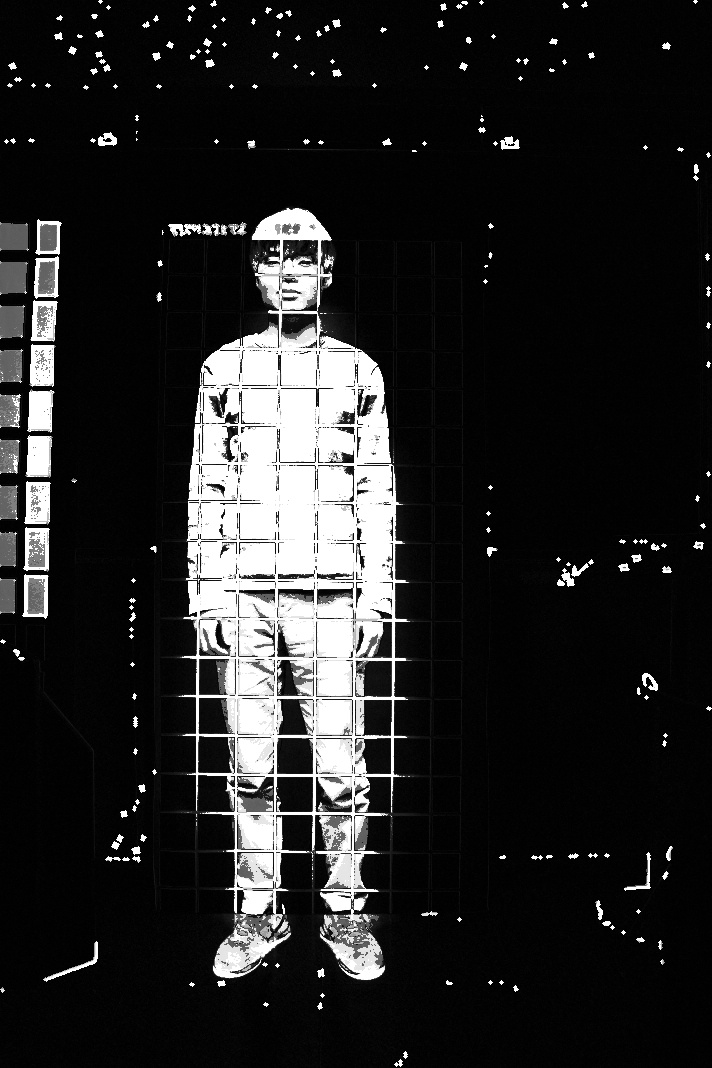
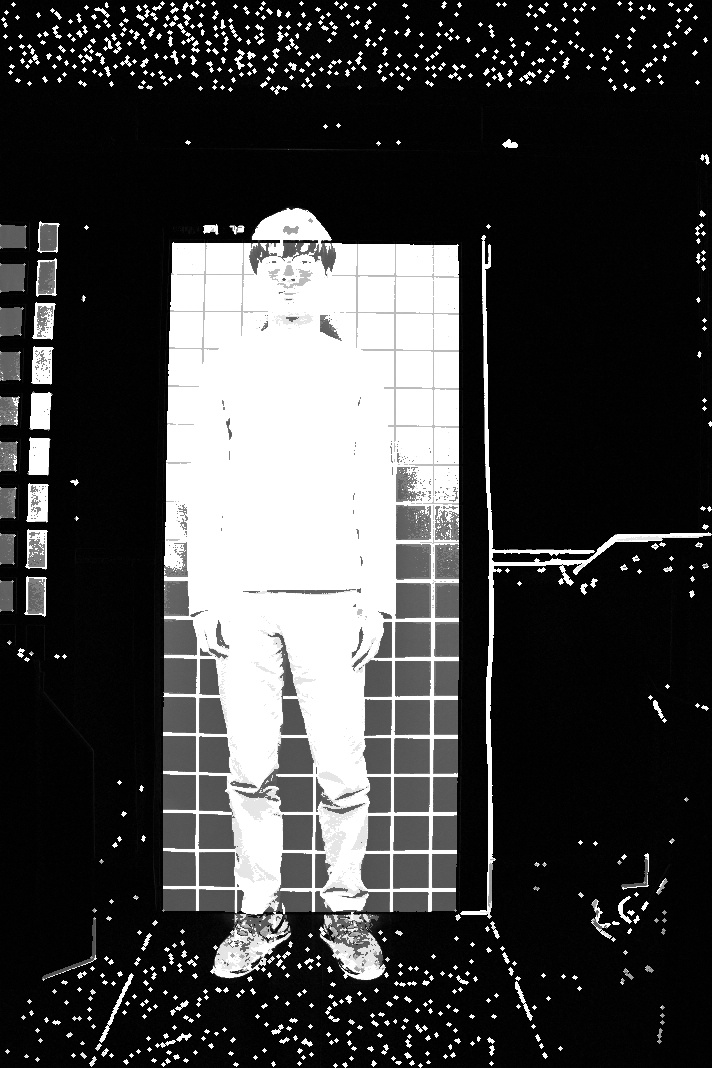
Extract black box from black board
Sadl;ajf;ksdqgq

diff --git a/ObjectDetect.py b/ObjectDetect.py
@@ -13,20 +13,39 @@ def Show(image,key=0):
     cv2.waitKey(key)
 
 def GrayImage(before,after):
+    #before :  Resources/testcase5/before.JPG
+    #after : Resources/testcase5/after.JPG
+
+    MORPHOLOGY_MASK_SIZE = 5
+    BLUR_MASK_SIZE = 1
+    EACH_IMAGE_DIFFERENCE_THRESHOLD = 30
+    SET_IMAGE_WHITE_COLOR = 255
+    NEIGHBORHOOD_MASK_SIZE = 7
+    CANNY_MINIMUM_THRESHOLD = 0
+    CANNY_MAXIMUM_THRESHOLD = 255
+    GET_MAXIMUM_AREA_SIZE = 5
+    SQUARE_CORNER_NUM = 4
+
     lineImage = before
+    # Line detect image
+
     beforeGray = cv2.cvtColor(before, cv2.COLOR_BGR2GRAY)
     afterGray = cv2.cvtColor(after, cv2.COLOR_BGR2GRAY)
-    kernel = np.ones((5, 5), np.uint8)
-    beforeGray = cv2.morphologyEx(beforeGray, cv2.MORPH_OPEN, kernel)
-    cv2.imwrite('Morphology.png',beforeGray)
+    # Change color to gray
 
-    beforeGray = cv2.morphologyEx(before, cv2.MORPH_OPEN, kernel)
+    kernel = np.ones((MORPHOLOGY_MASK_SIZE, MORPHOLOGY_MASK_SIZE), np.uint8)
+    beforeGray = cv2.morphologyEx(beforeGray, cv2.MORPH_OPEN, kernel)
+    #beforeGray = cv2.morphologyEx(before, cv2.MORPH_OPEN, kernel)
+    afterGray = cv2.morphologyEx(afterGray, cv2.MORPH_OPEN, kernel)
+    # Reduce image noise
+
+    difference = cv2.absdiff(beforeGray, afterGray)
+    difference[difference > EACH_IMAGE_DIFFERENCE_THRESHOLD] = SET_IMAGE_WHITE_COLOR
+    # Dectect each image difference
+
+    '''
     splitImage = []
     splitImage = cv2.split(beforeGray)
-
-    afterGray = cv2.morphologyEx(afterGray, cv2.MORPH_OPEN, kernel)
-    difference = cv2.absdiff(beforeGray, afterGray)
-    difference[difference > 30] = 255
 
     for color in splitImage:
         color = cv2.GaussianBlur(color, (3,3), 0)
@@ -47,11 +66,41 @@ def GrayImage(before,after):
                 for i in approx:
                     x, y = i.ravel()
                     cv2.circle(lineImage, (x, y), 1, (0, 255, 0), -1)
+    '''
 
-    blurImage = cv2.GaussianBlur(beforeGray, (3, 3), 0)
-    blurImage = cv2.adaptiveThreshold(blurImage, 255, cv2.ADAPTIVE_THRESH_MEAN_C, cv2.THRESH_BINARY, 7, 10)
-    _, contours, h = cv2.findContours(blurImage, cv2.RETR_LIST, cv2.CHAIN_APPROX_SIMPLE)
-    edges = cv2.Canny(blurImage, 50, 150,apertureSize = 3)
+    #blurImage = cv2.GaussianBlur(beforeGray, (BLUR_MASK_SIZE, BLUR_MASK_SIZE), 0)
+    # Reduce image noise, 0 : border type (idk)
+
+    blurImage = cv2.adaptiveThreshold(beforeGray, SET_IMAGE_WHITE_COLOR, cv2.ADAPTIVE_THRESH_MEAN_C,
+                                      cv2.THRESH_BINARY, NEIGHBORHOOD_MASK_SIZE, 10)
+    # Get small size of block's threshold value
+
+    edges = cv2.Canny(blurImage, CANNY_MINIMUM_THRESHOLD, CANNY_MAXIMUM_THRESHOLD, apertureSize = 5)
+    cv2.imwrite("cannyEdgeDetectedImage.jpg", edges)
+    # Edge detect from bulr processed image
+    (_, contours, h) = cv2.findContours(blurImage, cv2.RETR_LIST, cv2.CHAIN_APPROX_SIMPLE)
+    # Get image contour
+
+    foundedMaxAreaSizeContours = sorted(contours, key=cv2.contourArea, reverse=True)[:GET_MAXIMUM_AREA_SIZE]
+
+    squareContourData = []
+
+    for indexOfContour in foundedMaxAreaSizeContours:
+        peri = cv2.arcLength(indexOfContour, True)
+        approx = cv2.approxPolyDP(indexOfContour, 0.02 * peri, True)
+
+        if len(approx) == SQUARE_CORNER_NUM:
+            squareContourData = approx
+            print "contour data"
+            print squareContourData
+            break
+
+    beforeBack = before
+
+    cv2.drawContours(beforeBack, squareContourData, -1, (0, 255, 0), 2)
+    cv2.imshow("test", beforeBack)
+    cv2.imwrite("maximumAreaDetectedImage.jpg", beforeBack)
+
     Show([edges])
     cv2.imwrite('ThresholdImage.png',blurImage)
 
@@ -64,7 +113,7 @@ def GrayImage(before,after):
             print "triangle"
             cv2.drawContours(lineImage, [count], 0, (0, 255, 0), -1)
         elif len(approx) == 4 :
-            print approx
+            #print approx
             cv2.drawContours(lineImage, [count], 0, (0, 0, 255), -1)  # square
             for i in approx:
                 x, y = i.ravel()
